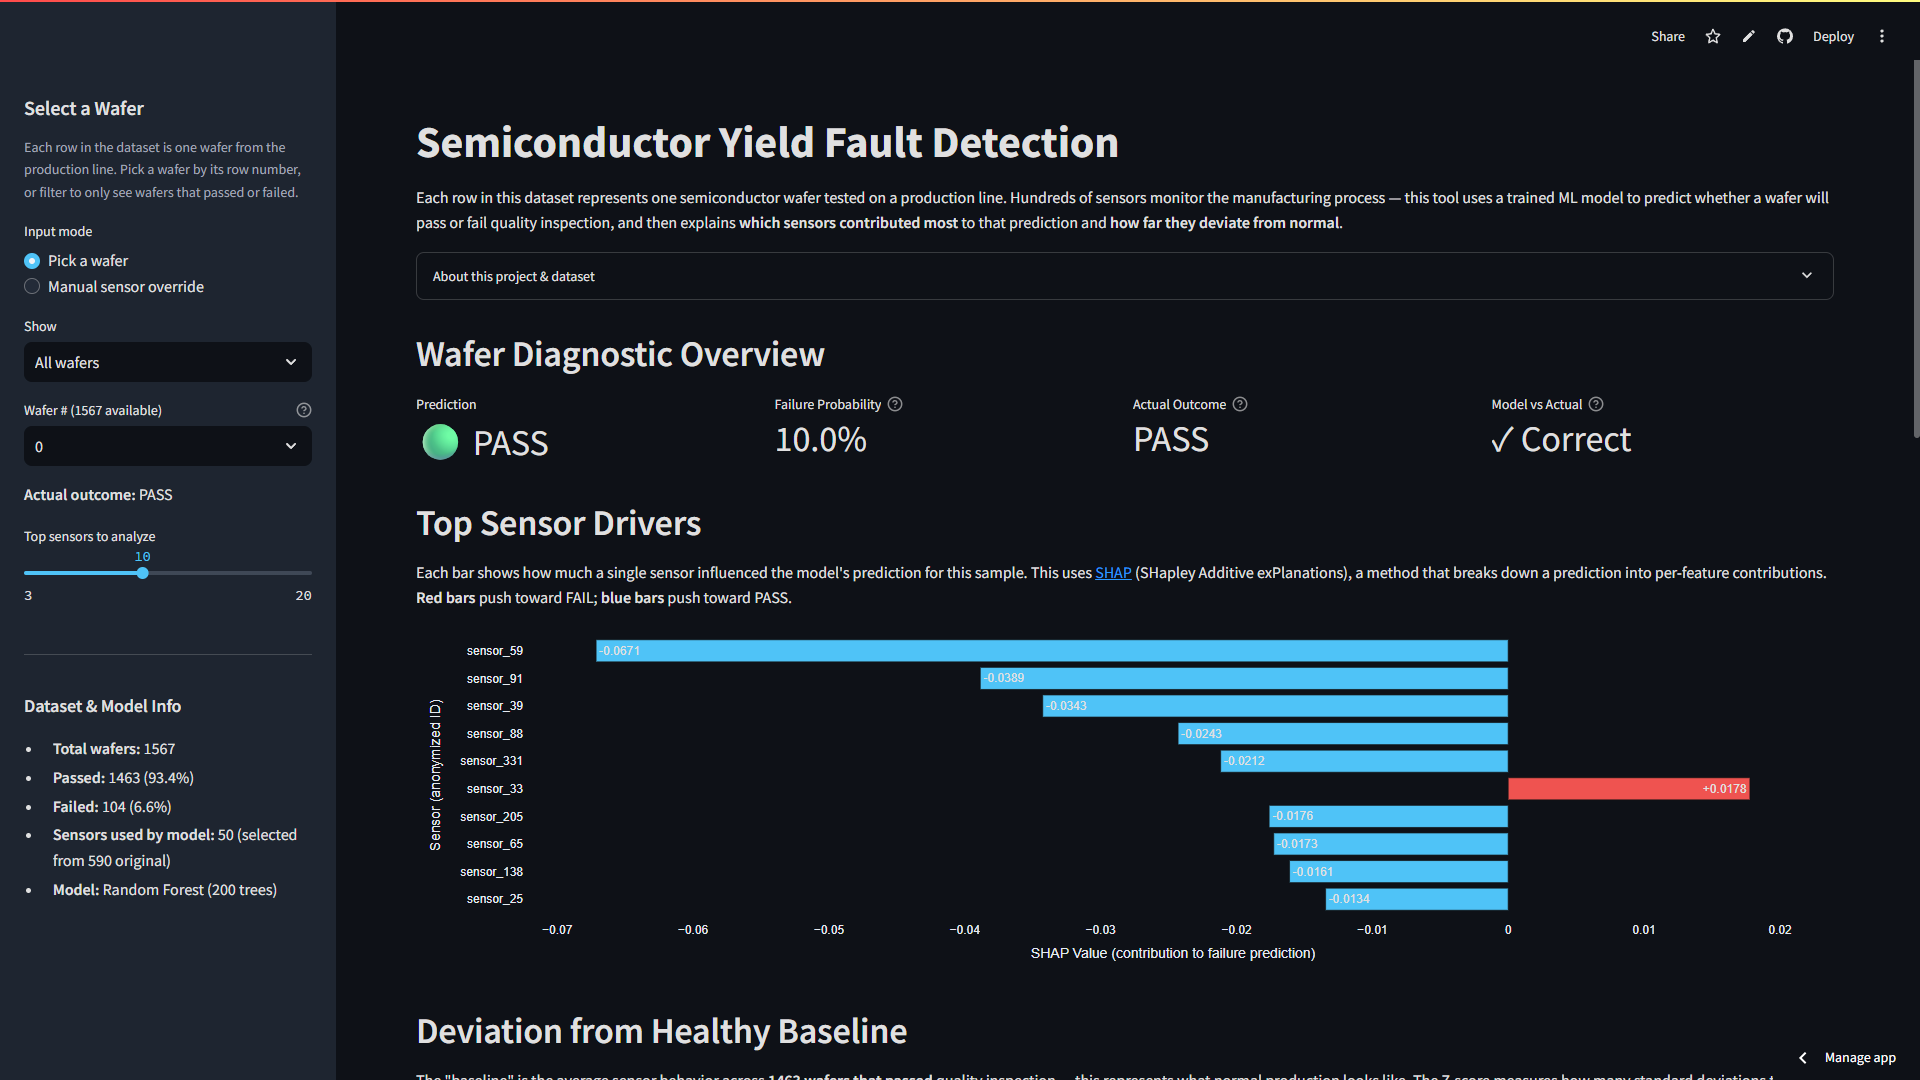
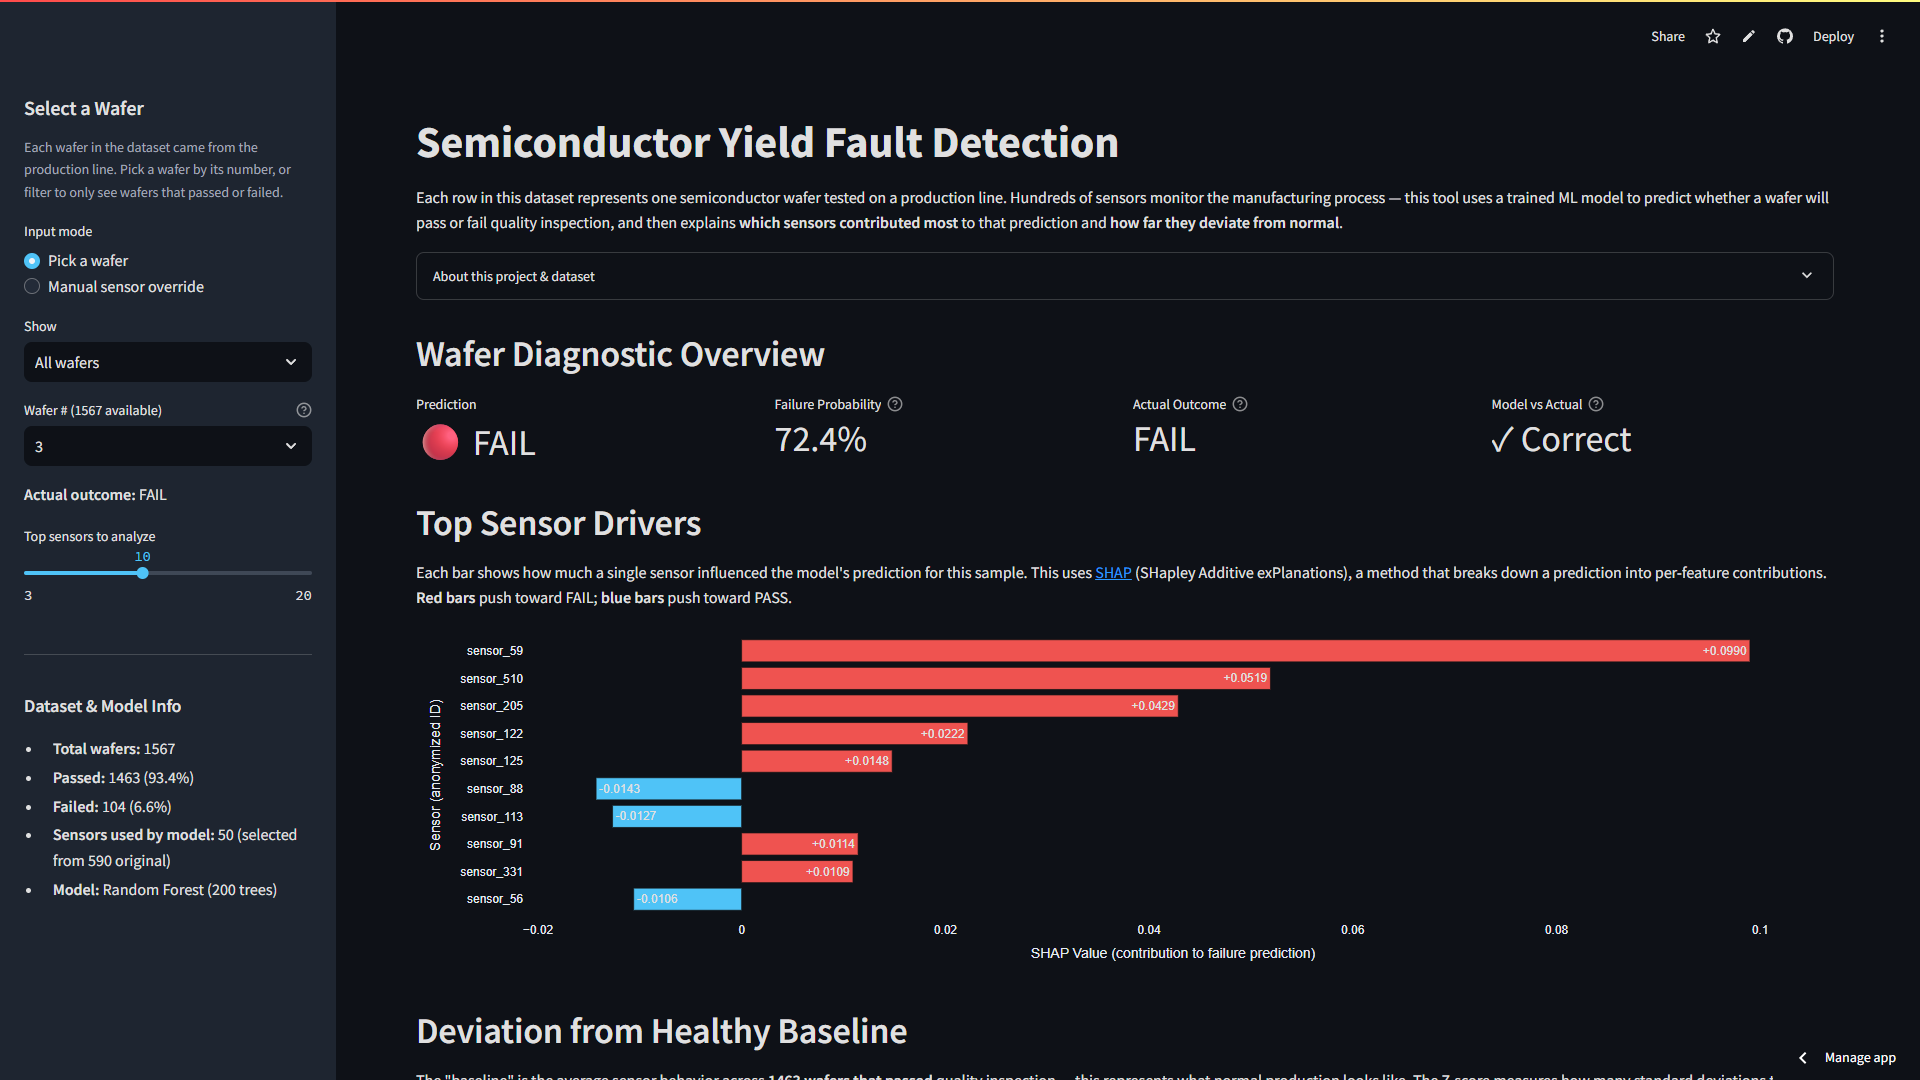
Update dashboard screenshot with 1-based wafer numbering and fail example
Made-with: Cursor

diff --git a/README.md b/README.md
@@ -28,7 +28,7 @@ and a **Jupyter notebook** for deeper batch analysis.
 
 ## Dashboard
 
-![Dashboard Screenshot](docs/dashboard_screenshot.png?v=2)
+![Dashboard Screenshot](docs/dashboard_screenshot.png?v=3)
 
 The dashboard lets you select any wafer and instantly see:
 
